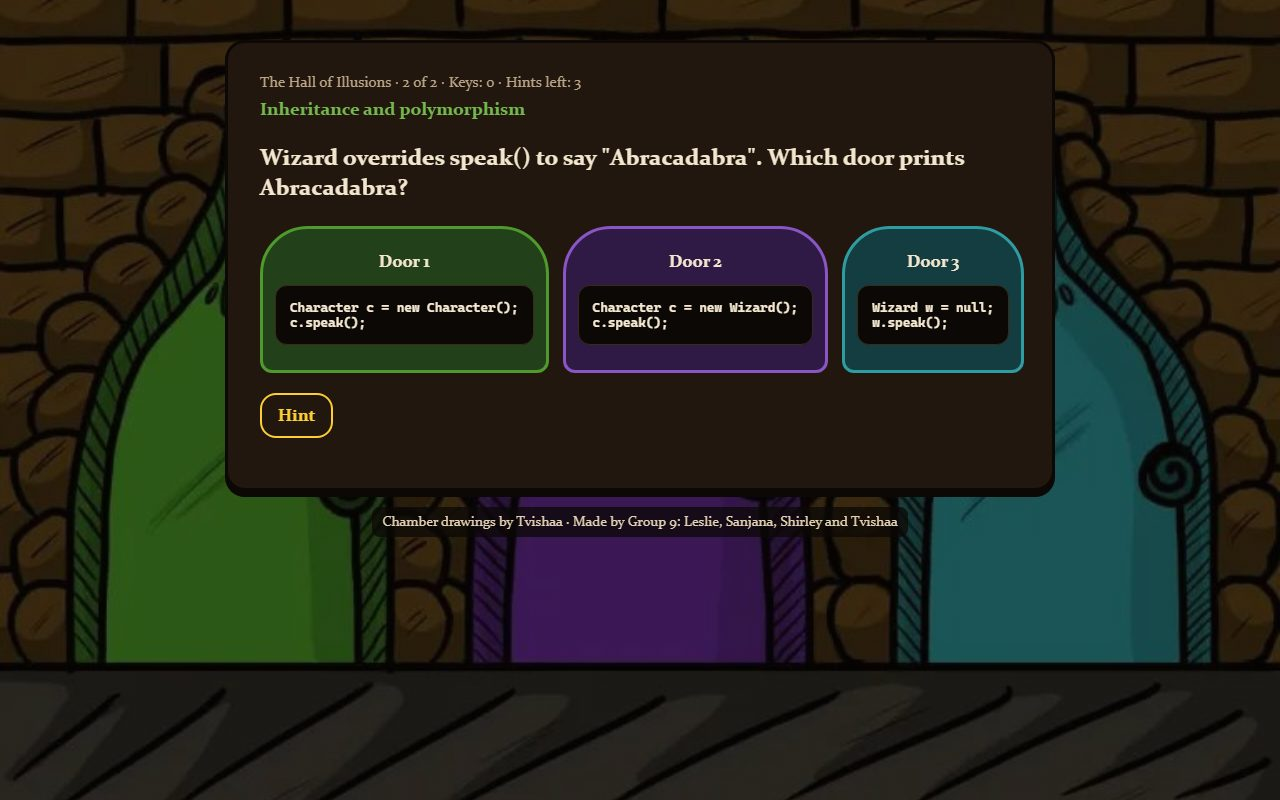
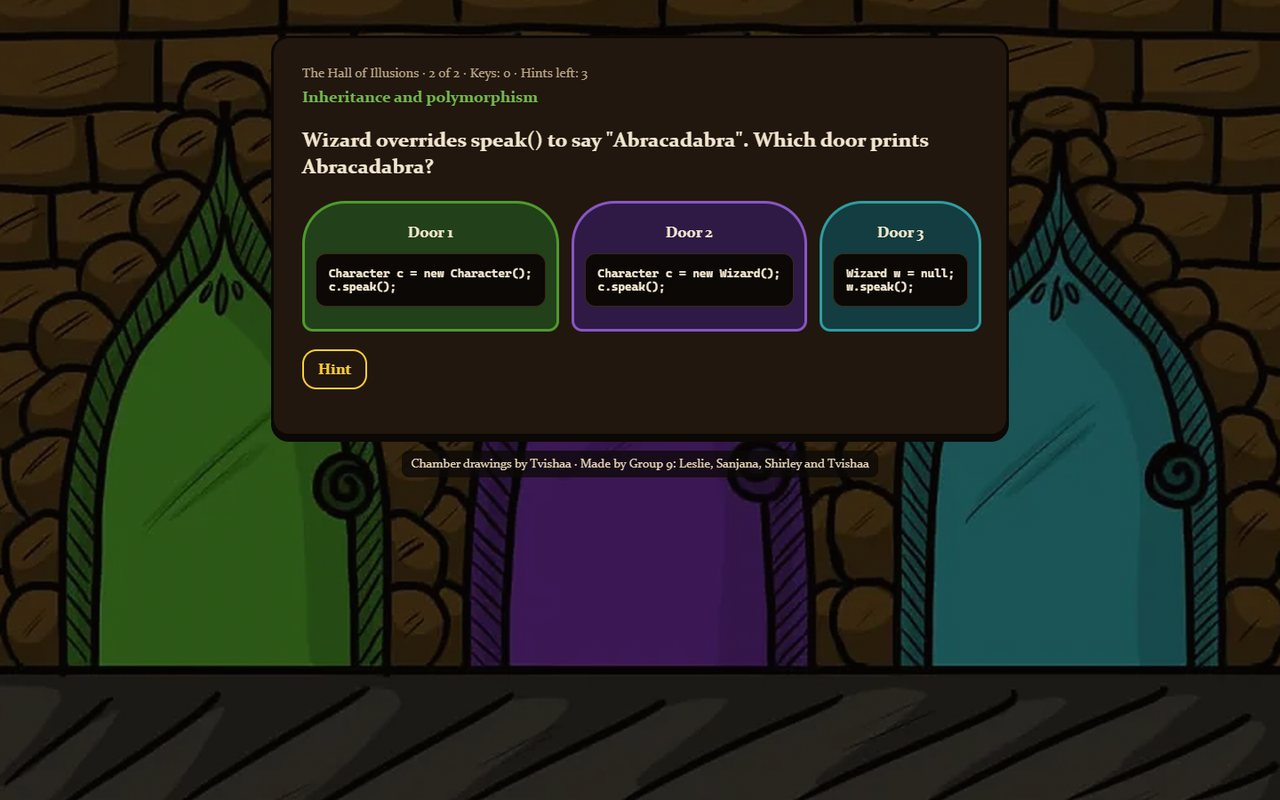
Title cards: show Tvishaa's full drawing before each chamber, sharper art
- Each new chamber opens on her full, uncropped drawing with its name,
  then crossfades into the puzzle (opacity + 10px slide, ease-out, no
  bounce or zoom). Auto-advances after ~3s; click or any key skips.
  Off under prefers-reduced-motion.
- Art re-exported at 2x with Lanczos + light sharpening so the browser
  scales down instead of up; trimmed the light scan edge.
- README: title-card screenshots, refreshed images from the Playwright run.

diff --git a/game.js b/game.js
@@ -18,11 +18,44 @@ let player = {
 // Small helper: put HTML on the screen.
 // scene (optional) picks which of Tvishaa's drawings sits behind the page:
 // "door", "warlock", "maze", "lab" or "hall". See body[data-scene] in style.css.
-function show(html, scene) {
+// title (optional): when you walk into a NEW scene, her full drawing shows first
+// as a title card with this name, then fades into the chamber.
+function show(html, scene, title) {
   app.innerHTML = html;
+  if (scene && scene !== document.body.dataset.scene && title) showSceneCard(scene, title);
   if (scene) document.body.dataset.scene = scene;
   window.scrollTo(0, 0);
 }
+
+// ---------- Title card: Tvishaa's drawing, full size ----------
+let cardTimer = null;
+
+function showSceneCard(scene, title) {
+  const card = document.getElementById("scene-card");
+  const img = document.getElementById("scene-img");
+  img.src = `art/tvishaa-${scene}.jpg`;
+  img.alt = `${title}, drawn by Tvishaa`;
+  document.getElementById("scene-title").textContent = title;
+  card.hidden = false;
+  document.body.classList.add("revealing"); // hides the chamber until the card fades
+  // Wait for the picture to load, then fade the card in
+  img.decode().catch(() => {}).then(() => requestAnimationFrame(() => card.classList.add("on")));
+  clearTimeout(cardTimer);
+  cardTimer = setTimeout(hideSceneCard, 2800);
+}
+
+function hideSceneCard() {
+  const card = document.getElementById("scene-card");
+  if (card.hidden) return;
+  clearTimeout(cardTimer);
+  card.classList.remove("on");
+  document.body.classList.remove("revealing");
+  setTimeout(() => { if (!card.classList.contains("on")) card.hidden = true; }, 600);
+}
+
+// Click or press any key to skip the title card
+document.getElementById("scene-card").addEventListener("click", hideSceneCard);
+document.addEventListener("keydown", hideSceneCard);
 
 function codeBlock(code) {
   const safe = code.replace(/&/g, "&amp;").replace(/</g, "&lt;");
@@ -43,7 +76,7 @@ function startScreen() {
     `<button class="choice" style="border-color:${k.color}" onclick="pickKnight(${i})">${k.name}</button>`).join("");
   show(`<h1>Knight's Escape</h1>
         <p class="subtitle">An OOP Quest</p>
-        <p>Choose your knight:</p><div class="choices">${knights}</div>`, "door");
+        <p>Choose your knight:</p><div class="choices">${knights}</div>`, "door", "Knight's Escape");
 }
 
 function pickKnight(i) {
@@ -57,7 +90,7 @@ function pickDifficulty(j) {
   player.difficulty = DIFFICULTIES[j];
   show(`<p class="warlock">${WARLOCK.name}:</p>
         <h2>"${WARLOCK.intro}"</h2>
-        <button onclick="mazeTurn(0)">Enter the dungeon</button>`, "warlock");
+        <button onclick="mazeTurn(0)">Enter the dungeon</button>`, "warlock", WARLOCK.name);
 }
 
 // Shared by every chamber: hint button and wrong-answer taunt
@@ -85,7 +118,7 @@ function mazeTurn(n) {
         ${codeBlock(t.code)}<h2>${t.question}</h2>
         <div class="choices">${choices}</div>
         <button class="secondary" onclick="useHint(MAZE.turns[${n}].hint)">Hint</button>
-        <p id="hint"></p><p id="feedback"></p>`, "maze");
+        <p id="hint"></p><p id="feedback"></p>`, "maze", MAZE.title);
 }
 
 function mazeAnswer(n, i) {
@@ -117,7 +150,7 @@ function labStep(n) {
         ${codeBlock(s.code)}<h2>What does this print?</h2>
         <div class="choices">${choices}</div>
         <button class="secondary" onclick="useHint(LAB.steps[${n}].hint)">Hint</button>
-        <p id="hint"></p><p id="feedback"></p>`, "lab");
+        <p id="hint"></p><p id="feedback"></p>`, "lab", LAB.title);
 }
 
 function labAnswer(n, i) {
@@ -142,7 +175,7 @@ function hallRound(n) {
         ${n === 0 ? `<p class="story">${HALL.story}</p>` : ""}
         <h2>${r.question}</h2><div class="doors">${doors}</div>
         <button class="secondary" onclick="useHint(HALL.rounds[${n}].hint)">Hint</button>
-        <p id="hint"></p><p id="feedback"></p>`, "hall");
+        <p id="hint"></p><p id="feedback"></p>`, "hall", HALL.title);
 }
 
 function hallAnswer(n, i) {
@@ -164,7 +197,7 @@ function finalQuestion(n) {
         ${n === 0 ? `<p class="story">${FINAL.story}</p>` : ""}
         <p class="warlock">${WARLOCK.name} asks:</p><h2>${q.question}</h2>
         <textarea id="answer" rows="4" placeholder="Answer in your own words..."></textarea>
-        <button onclick="finalCheck(${n})">Answer the warlock</button><p id="feedback"></p>`, "door");
+        <button onclick="finalCheck(${n})">Answer the warlock</button><p id="feedback"></p>`, "door", FINAL.title);
 }
 
 function finalCheck(n) {

diff --git a/style.css b/style.css
@@ -23,6 +23,8 @@
   --font-title: "Castellar", "Constantia", Georgia, serif;
   --font-body: "Constantia", "Palatino Linotype", Georgia, serif;
   --font-code: "Cascadia Mono", Consolas, "Courier New", monospace;
+
+  --ease-out: cubic-bezier(0.22, 1, 0.36, 1); /* fast start, gentle stop */
 }
 
 body {
@@ -52,6 +54,52 @@ body[data-scene="warlock"] { --scene: url("art/tvishaa-warlock.jpg"); }
 body[data-scene="maze"]    { --scene: url("art/tvishaa-maze.jpg"); }
 body[data-scene="lab"]     { --scene: url("art/tvishaa-lab.jpg"); }
 body[data-scene="hall"]    { --scene: url("art/tvishaa-hall.jpg"); }
+
+/* Title card: Tvishaa's full drawing, shown when you enter a new chamber.
+   It fades in, holds, then crossfades into the chamber. Opacity and a small slide only. */
+.scene-card {
+  position: fixed;
+  inset: 0;
+  z-index: 10;
+  display: flex;
+  flex-direction: column;
+  align-items: center;
+  justify-content: center;
+  padding: 24px 16px;
+  background: #0d0905;
+  cursor: pointer;
+  opacity: 0;
+  transition: opacity 600ms var(--ease-out);
+}
+.scene-card[hidden] { display: none; }
+.scene-card.on { opacity: 1; transition-duration: 450ms; }
+.scene-card figure { margin: 0; text-align: center; }
+.scene-card img {
+  display: block;
+  margin: 0 auto;
+  width: auto;
+  height: auto;
+  max-width: min(100%, 1180px);
+  max-height: 74vh;
+  border: 3px solid var(--ink);
+  border-radius: 14px;
+  box-shadow: 0 18px 40px rgba(0, 0, 0, 0.55);
+}
+.scene-card figcaption {
+  margin-top: 18px;
+  font-family: var(--font-title);
+  font-size: clamp(26px, 4vw, 40px);
+  line-height: 1.1;
+  color: var(--torch);
+}
+.scene-skip { margin: 10px 0 0; font-size: 14px; color: var(--muted); }
+
+/* The chamber waits behind the card, then slides up a little as it fades in */
+main, footer {
+  transition: opacity 500ms var(--ease-out) 120ms, transform 500ms var(--ease-out) 120ms;
+}
+body.revealing main,
+body.revealing footer { opacity: 0; transform: translateY(10px); transition: none; }
 
 main {
   max-width: 760px;
@@ -197,6 +245,6 @@ footer span { display: inline-block; background: rgba(11, 8, 6, 0.75); padding: 
 }
 
 @media (prefers-reduced-motion: reduce) {
-  button { transition: none; }
-  button:hover { transform: none; }
+  button, main, footer, .scene-card, .scene-card.on { transition: none; }
+  button:hover, body.revealing main, body.revealing footer { transform: none; }
 }

diff --git a/index.html b/index.html
@@ -7,6 +7,14 @@
   <link rel="stylesheet" href="style.css">
 </head>
 <body>
+  <!-- Title card: shows Tvishaa's full drawing before each chamber (see showSceneCard in game.js) -->
+  <div id="scene-card" class="scene-card" hidden>
+    <figure>
+      <img id="scene-img" alt="">
+      <figcaption id="scene-title"></figcaption>
+    </figure>
+    <p class="scene-skip">Drawing by Tvishaa · click to continue</p>
+  </div>
   <main id="app"></main>
   <footer><span>Chamber drawings by Tvishaa · Made by Group 9: Leslie, Sanjana, Shirley and Tvishaa</span></footer>
   <script src="rooms.js"></script>

diff --git a/README.md b/README.md
@@ -17,6 +17,17 @@ Knight's Escape is a browser escape room that teaches Java object-oriented progr
 
 ![The Hall of Illusions: three arched code doors in green, purple and teal, in front of Tvishaa's drawing of the same three doors](docs/img/hall.jpg)
 
+### Every chamber opens on Tvishaa's drawing
+
+When you walk into a new chamber, her full drawing shows first, uncropped, with the chamber's name. Then it fades into the puzzle, and the drawing stays behind you while you play. Click or press any key to skip ahead.
+
+<table>
+  <tr>
+    <td width="50%"><img src="docs/img/card-maze.jpg" alt="Title card: Tvishaa's full hand-drawn hedge maze with Start and End arrows, captioned LabyrinthLearn"></td>
+    <td width="50%"><img src="docs/img/card-lab.jpg" alt="Title card: Tvishaa's full drawing of the alchemy lab with a bubbling green cauldron, captioned The Alchemy Lab"></td>
+  </tr>
+</table>
+
 ## Play it
 
 Download or clone this repo and open `index.html` in any browser. There's nothing to install and no internet needed.
@@ -62,7 +73,7 @@ Difficulty sets your hints per chamber: **Squire** 3, **Knight** 2, **Champion**
   </tr>
 </table>
 
-<p align="center"><img src="docs/img/phone.jpg" width="560" alt="The game on two phone screens: the Hall of Illusions doors stacked, and the title screen"><br><b>Works on phones too.</b></p>
+<p align="center"><img src="docs/img/phone.jpg" width="560" alt="The game on two phone screens: the opening title card with the castle door, and the Hall of Illusions doors stacked"><br><b>Works on phones too.</b></p>
 
 ## Who made what
 
@@ -80,10 +91,10 @@ The team picked the name, the colors and the look together in Council votes on o
 
 ## Design
 
-- **Art:** all five scenes are Tvishaa's own drawings (in [`art/`](art/)). Each one sits behind the chamber it belongs to.
+- **Art:** all five scenes are Tvishaa's own drawings (in [`art/`](art/)). Each chamber opens on a title card with her full drawing, then the drawing sits behind the chamber while you play. The files are cleanly upscaled 2× so they stay sharp on big screens.
 - **Colors:** pulled straight from her drawings: brick and wood browns, maze-coin gold, hedge green, and the green, purple and teal of her three Hall doors, which the code doors match.
 - **Fonts:** Microsoft fonts that come with Windows and Office. **Castellar** (carved capitals) for big titles, **Constantia** for reading, **Cascadia Mono** / Consolas for code.
-- **Motion:** Shirley's hover lift, which turns off for anyone who asks their computer for reduced motion.
+- **Motion:** Shirley's hover lift on every button, and a quiet crossfade from each title card into its chamber (opacity and a 10px slide, no bounce or zoom). Both turn off for anyone whose computer asks for reduced motion.
 
 ## How the code works
 
@@ -110,7 +121,7 @@ Every puzzle is plain data, so adding one means copying a block in `rooms.js`:
 },
 ```
 
-To pick which drawing sits behind a screen, `game.js` passes a scene name to `show()`, like `show(html, "maze")`. `style.css` maps each name to a picture in `art/`.
+To pick which drawing sits behind a screen, `game.js` passes a scene name and a title to `show()`, like `show(html, "maze", MAZE.title)`. The first time a scene appears, `showSceneCard()` shows `art/tvishaa-maze.jpg` full size with that title, then fades into the chamber.
 
 ## Contributing
 
